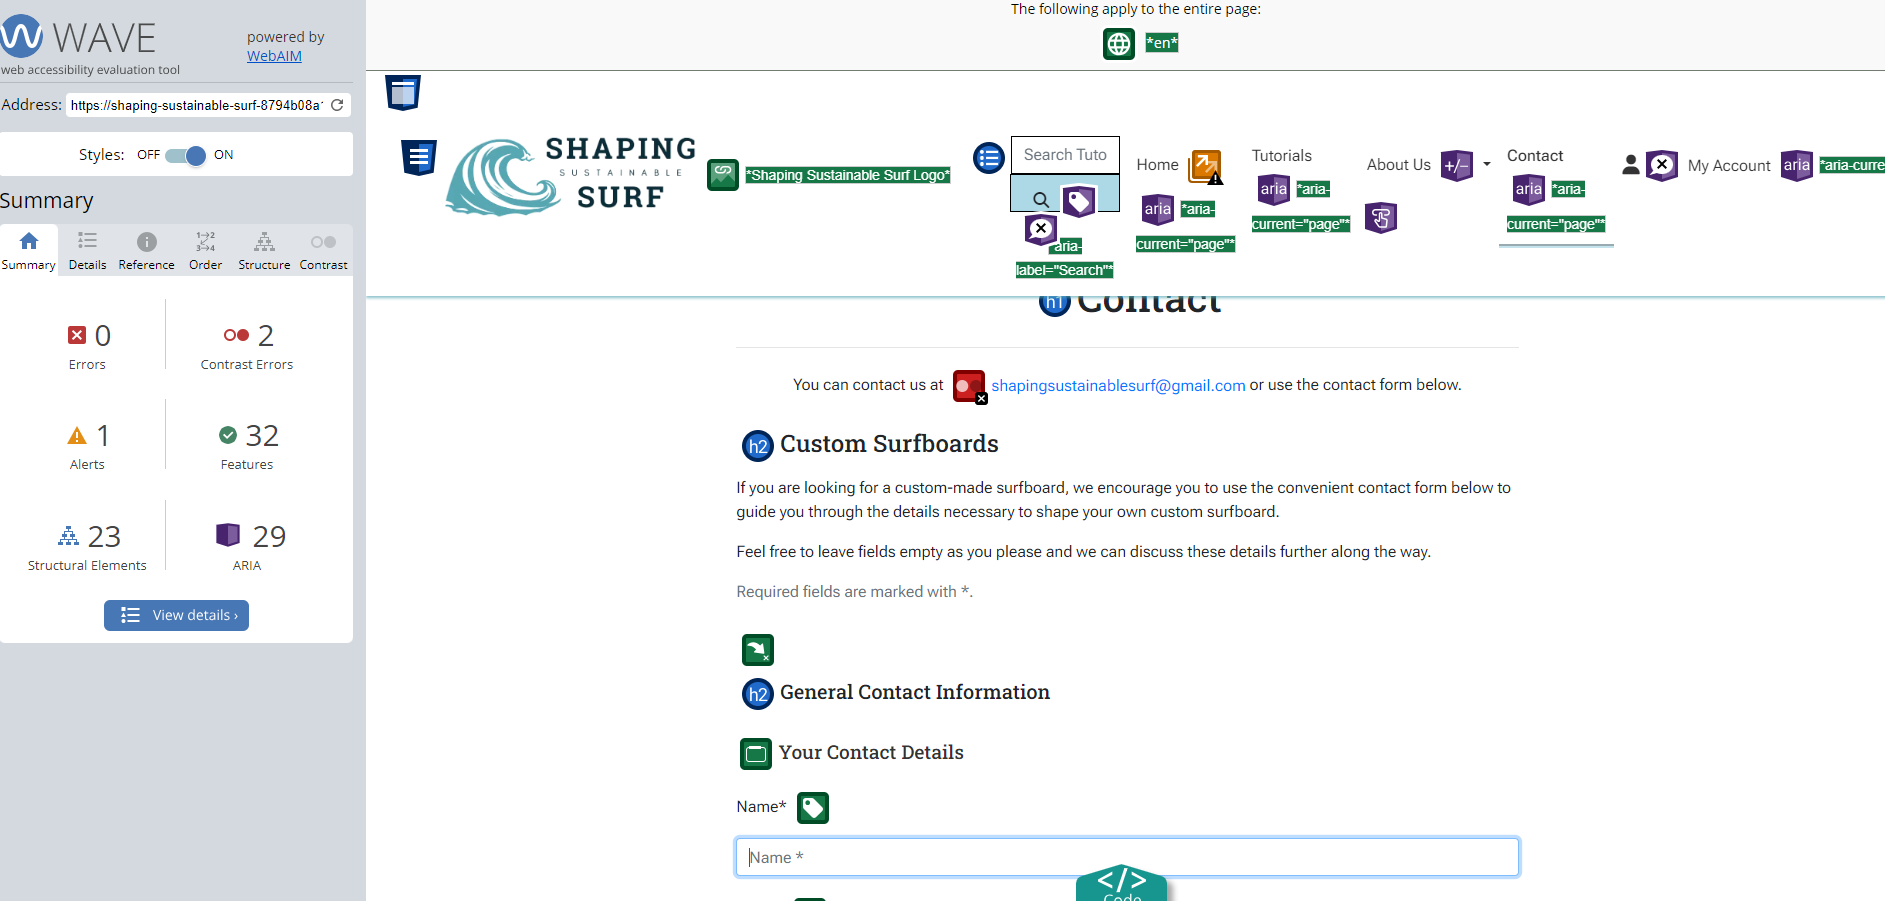
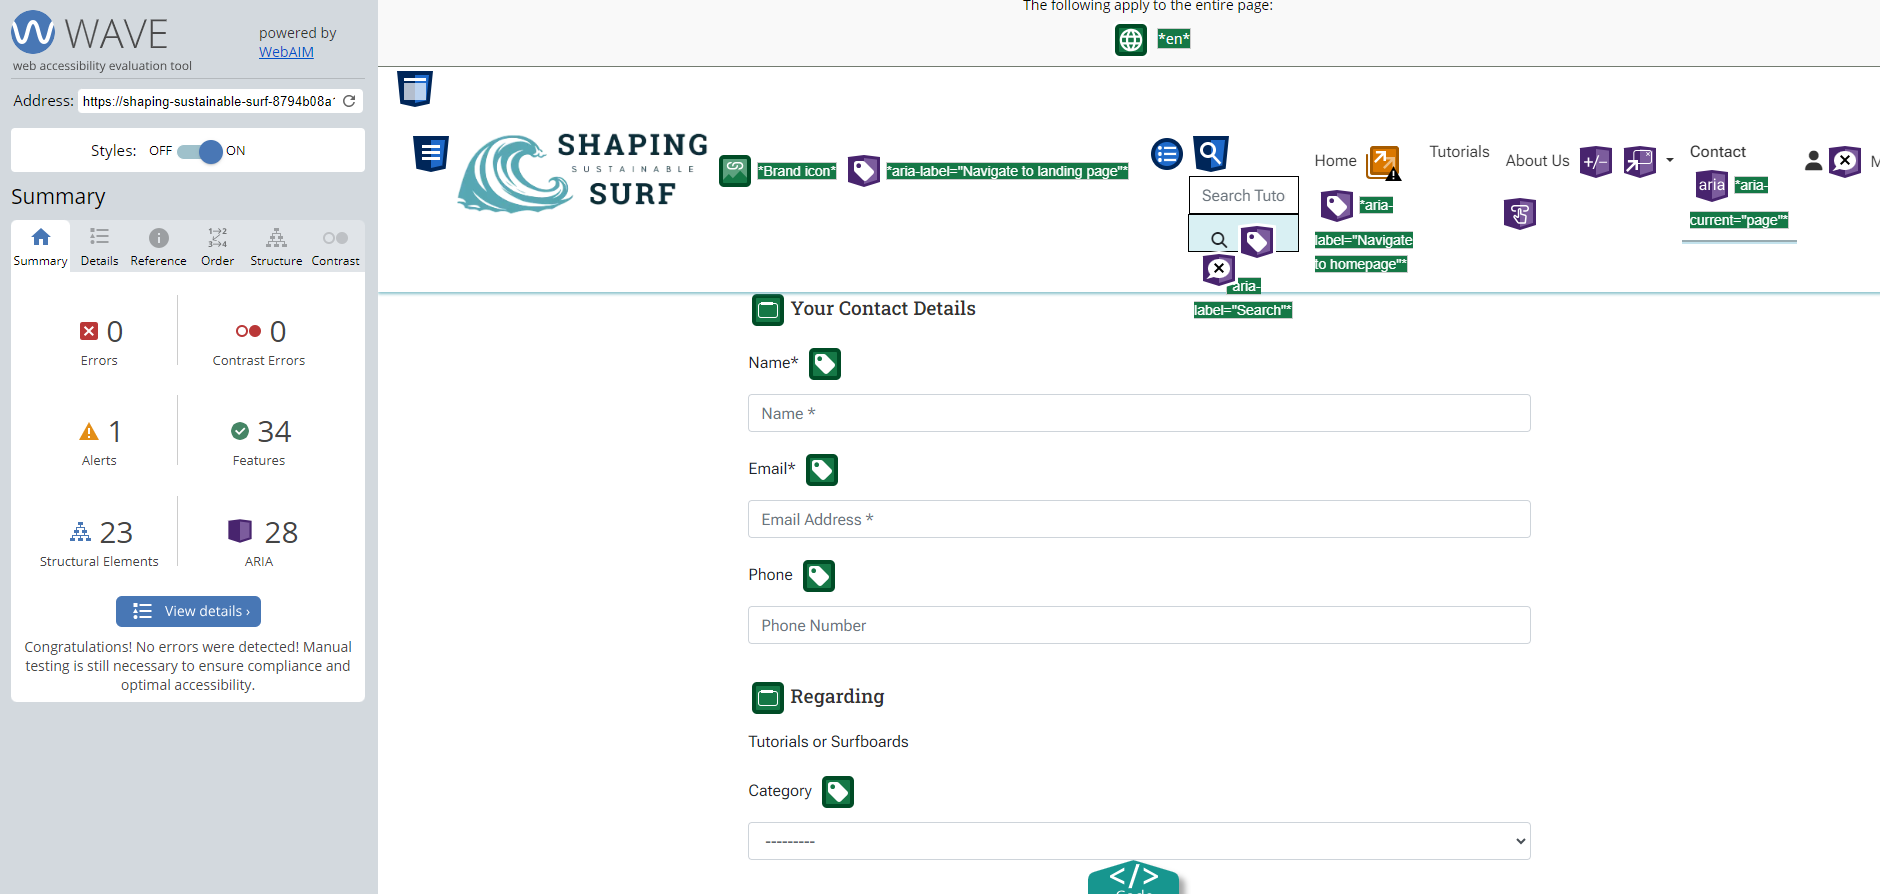
Update TESTING: wave report, add css for skip links

diff --git a/static/css/base.css b/static/css/base.css
@@ -110,6 +110,11 @@ header {
     box-shadow: var(--blue-box-shadow);
 }
 
+/* Skip links */
+.sr-only-focusable {
+    color: #0000FF;
+}
+
 /* index.html */
 
 .small-pics {
@@ -346,6 +351,11 @@ footer li a.btn-newsletter:active,
 footer li a.btn-newsletter:focus {
     font-size: 1.07em;
     transform: scale(1.02);
+}
+
+/* Privacy Policy ---------------------------------------------------- */
+a {
+    color: #0000FF;
 }
 
 /* Media Queries ------------------------------------------------------ */

diff --git a/staticfiles/css/base.css b/staticfiles/css/base.css
@@ -110,6 +110,11 @@ header {
     box-shadow: var(--blue-box-shadow);
 }
 
+/* Skip links */
+.sr-only-focusable {
+    color: #0000FF;
+}
+
 /* index.html */
 
 .small-pics {
@@ -346,6 +351,11 @@ footer li a.btn-newsletter:active,
 footer li a.btn-newsletter:focus {
     font-size: 1.07em;
     transform: scale(1.02);
+}
+
+/* Privacy Policy ---------------------------------------------------- */
+a {
+    color: #0000FF;
 }
 
 /* Media Queries ------------------------------------------------------ */

diff --git a/TESTING.md b/TESTING.md
@@ -377,16 +377,9 @@ As recommended by the [W3C, Web Accessibility Initiative (WAI)](https://www.w3.o
 
 The [Wave WebAIM Validator](https://wave.webaim.org/) was used to validate web accessibility on the deployed website.
 
-Links to tutorial details raise a warning, although the aria-label is dynamic and descriptive. Changed "tutorial" to "product" in aria-label to match model field.
-```python 
-href="{% url 'tutorial_detail' product.id %}" aria-label="Click to view details for **tutorial**: {{ product.name }}"
-```
-- **changed to:** 
-```python
-aria-label="Click to view details for **product**: {{ product.name }}"
-```
+The WAVE tool was used to test the accessibility of the website. The results of the test are successful and the website is fully accessible. 
 
-![test-accessibility-link](/documentation/testing/test-accessibility-link.png)
+One warning of redundant links is displayed. The navigation item 'homepage' has the same url as the adjacent logo, which is a common practice for good UX. The warning will not be heeded.
 
 ![wave-home](/documentation/validator/wave-home.png)
 
@@ -402,9 +395,11 @@ aria-label="Click to view details for **product**: {{ product.name }}"
 
 ![wave-surfboards-detail](/documentation/validator/wave-surfboards-detail.png)
 
-![wave-about-us](/documentation/validator/wave-faq.png)
+![wave-about-faq](/documentation/validator/wave-faq.png)
 
 ![wave-resources](/documentation/validator/wave-resources.png)
+
+![wave-newsletter](/documentation/validator/wave-newsletter.png)
 
 ### Coolors Contrast Checker
 
